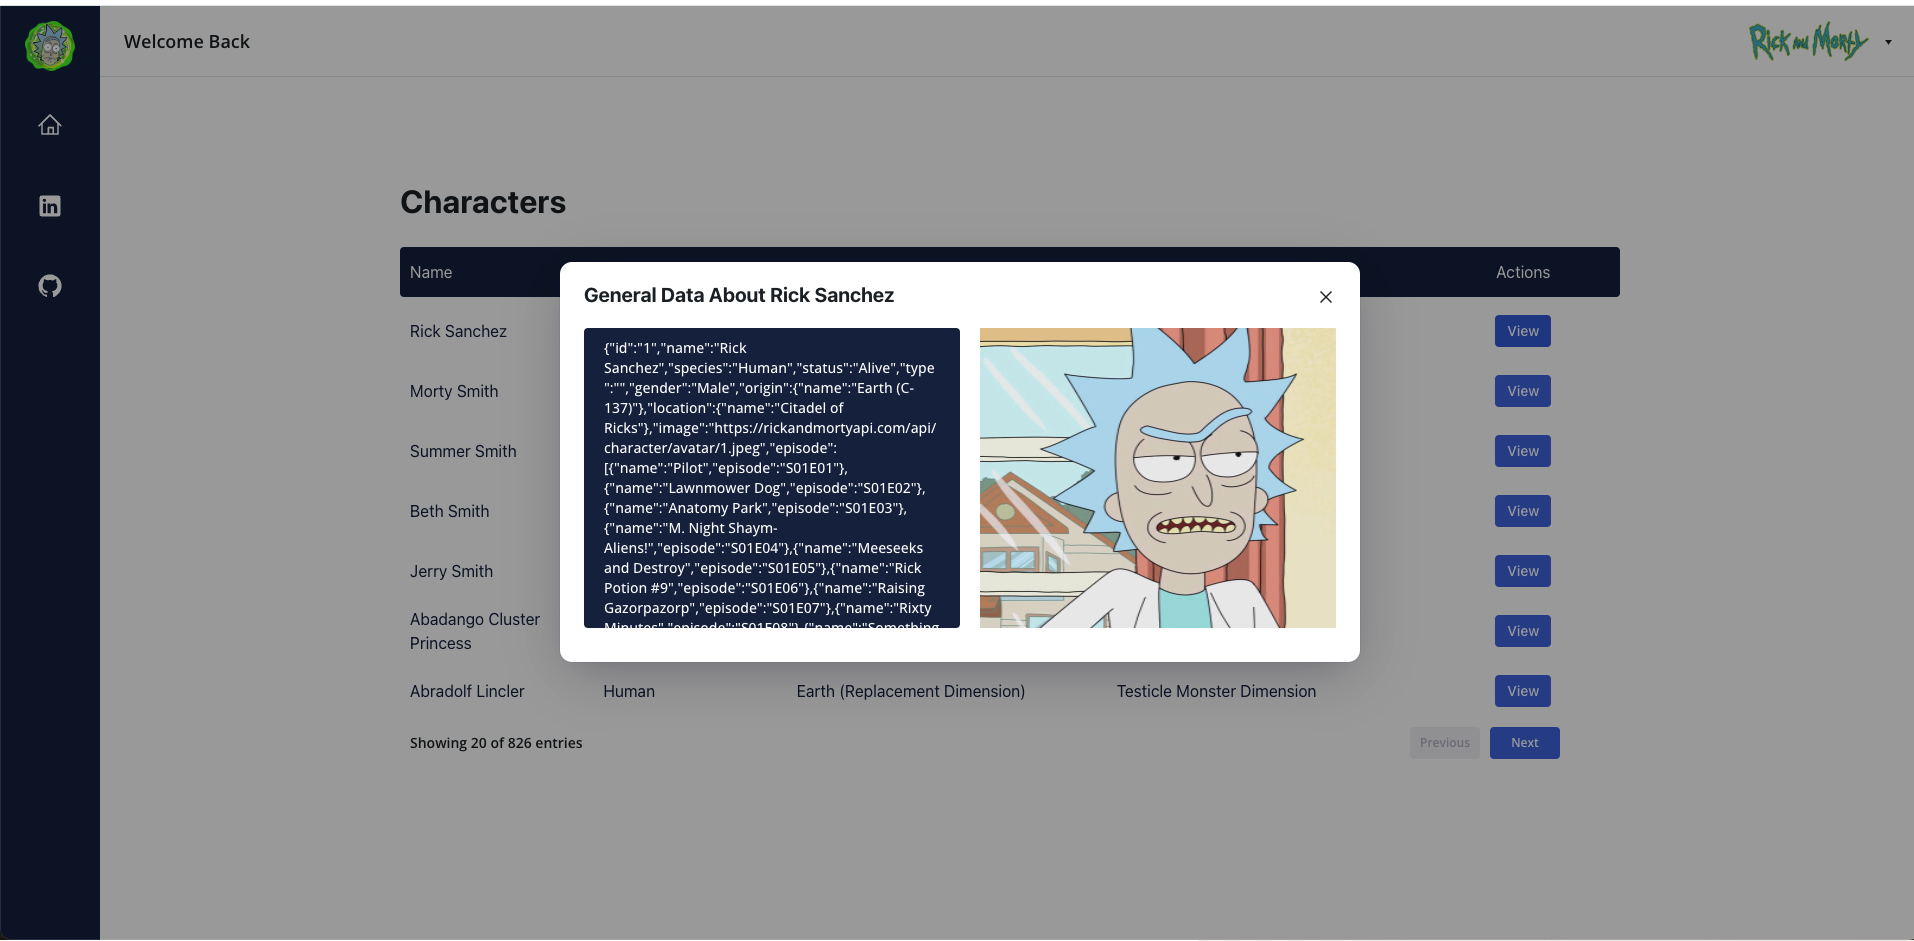
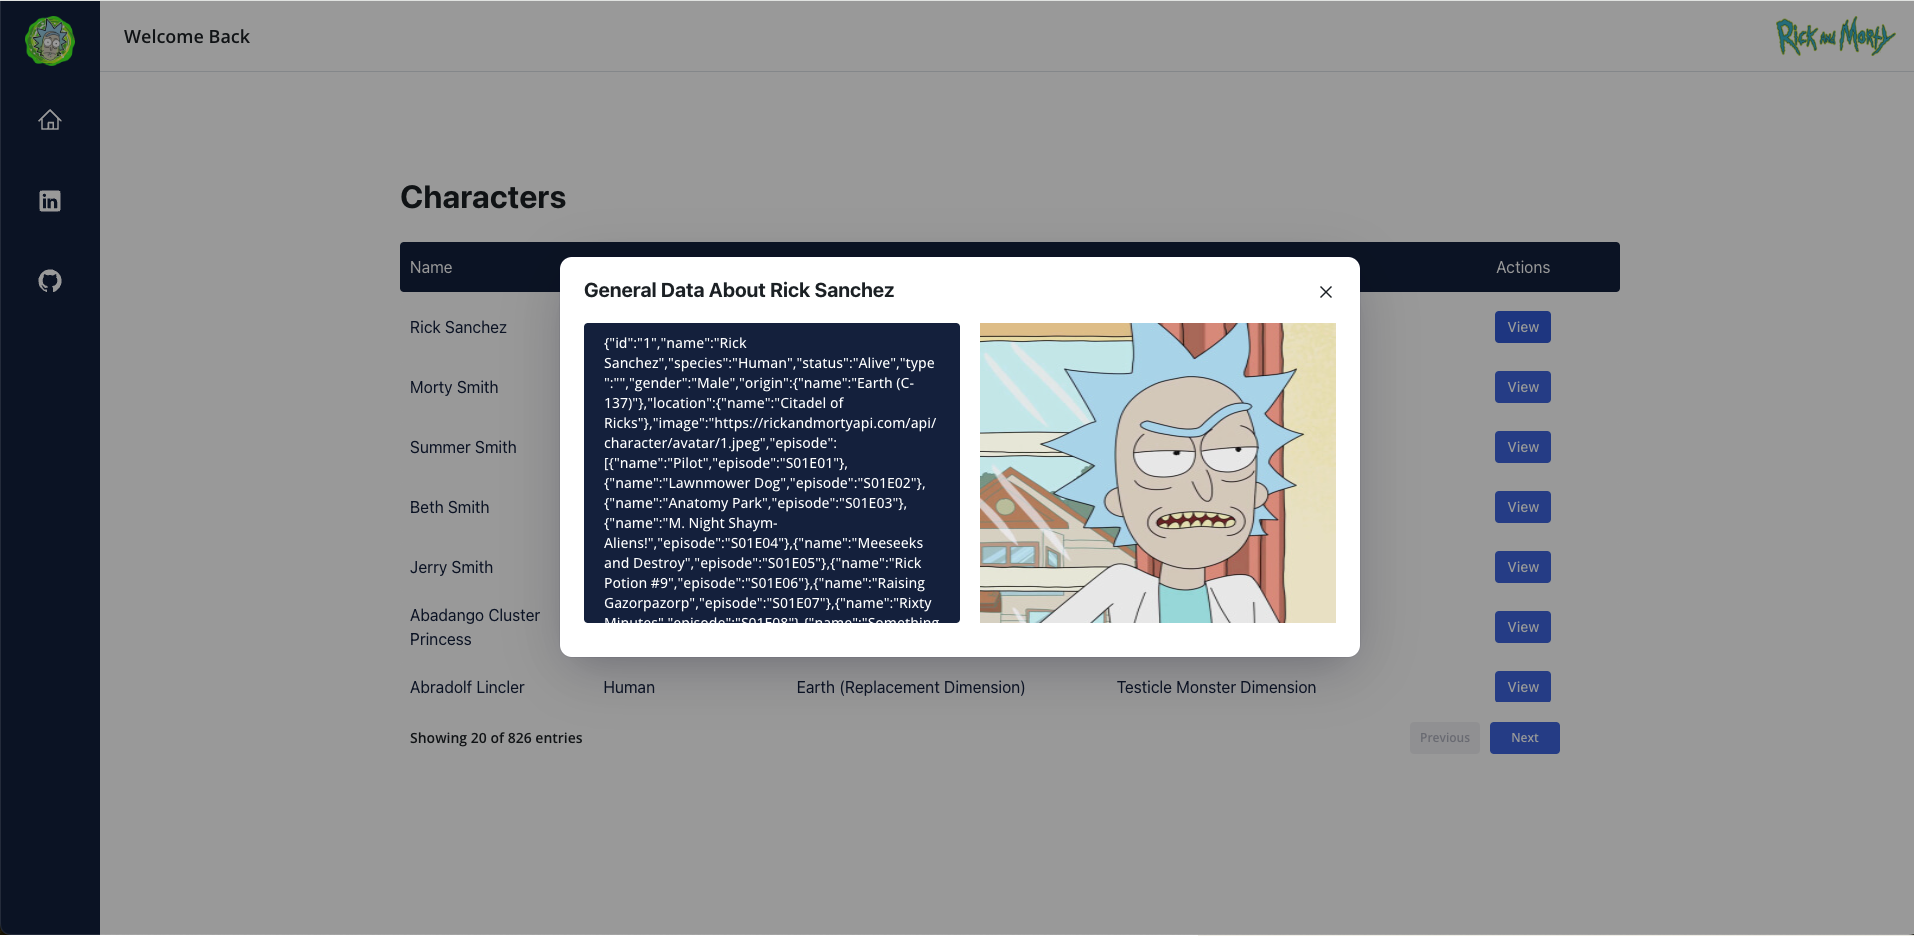
update display static client and readme

diff --git a/server/src/utils/server.utils.ts b/server/src/utils/server.utils.ts
@@ -3,6 +3,8 @@ import cors from "cors";
 import config from "config";
 import cookieParser from "cookie-parser";
 import routes from "../routes";
+import path from "path";
+
 const createServer = () => {
   const app = express();
   app.use(cookieParser());
@@ -13,8 +15,12 @@ const createServer = () => {
       credentials: true,
     })
   );
-  routes(app);
+  app.use(express.static(path.join(__dirname, "../../../client/build")));
+  app.get("/", (req, res) => {
+    res.sendFile(path.join(__dirname, "../../../client/build/index.html"));
+  });
 
+  routes(app);
   return app;
 };
 

diff --git a/client/src/components/TopBar.tsx b/client/src/components/TopBar.tsx
@@ -1,7 +1,6 @@
 import { Box } from "@radix-ui/themes";
 import React from "react";
 import styled from "styled-components";
-import UserMenu from "./UserMenu";
 
 const TopBarContainer = styled(Box)`
   display: flex;
@@ -21,7 +20,12 @@ const TopBar = () => {
   return (
     <TopBarContainer>
       <span>Welcome Back</span>
-      <UserMenu />
+      <img
+        style={{ userSelect: "none" }}
+        src="/images/Rick_and_Morty_logo.png"
+        width={120}
+        height={40}
+      />
     </TopBarContainer>
   );
 };

diff --git a/README.md b/README.md
@@ -1,5 +1,14 @@
 # Rick and Morty Project
 
+## Running The Project:
+
+- The app will be available at http://localhost:8080/ after running the following command:
+
+```
+cd client && npm run build && cd ../server && npm start
+
+```
+
 ![alt text](image.png)
 ![alt text](image-1.png)
 
@@ -12,3 +21,13 @@
 ## Additional Backend Features (not implemented in UI):
 
 - Auth module - Login, Register, Session
+- Add a .env file on the server to enable additional features (can work without).
+
+```
+PORT=<your port>
+MONGO_URI=<mongodb uri>
+HASH_SALT=<hash salt number>
+ACCESS_TOKEN_TTL=<milliseconds>
+PRIVATE_KEY=<secret>
+ORIGIN=<origin url>
+```
